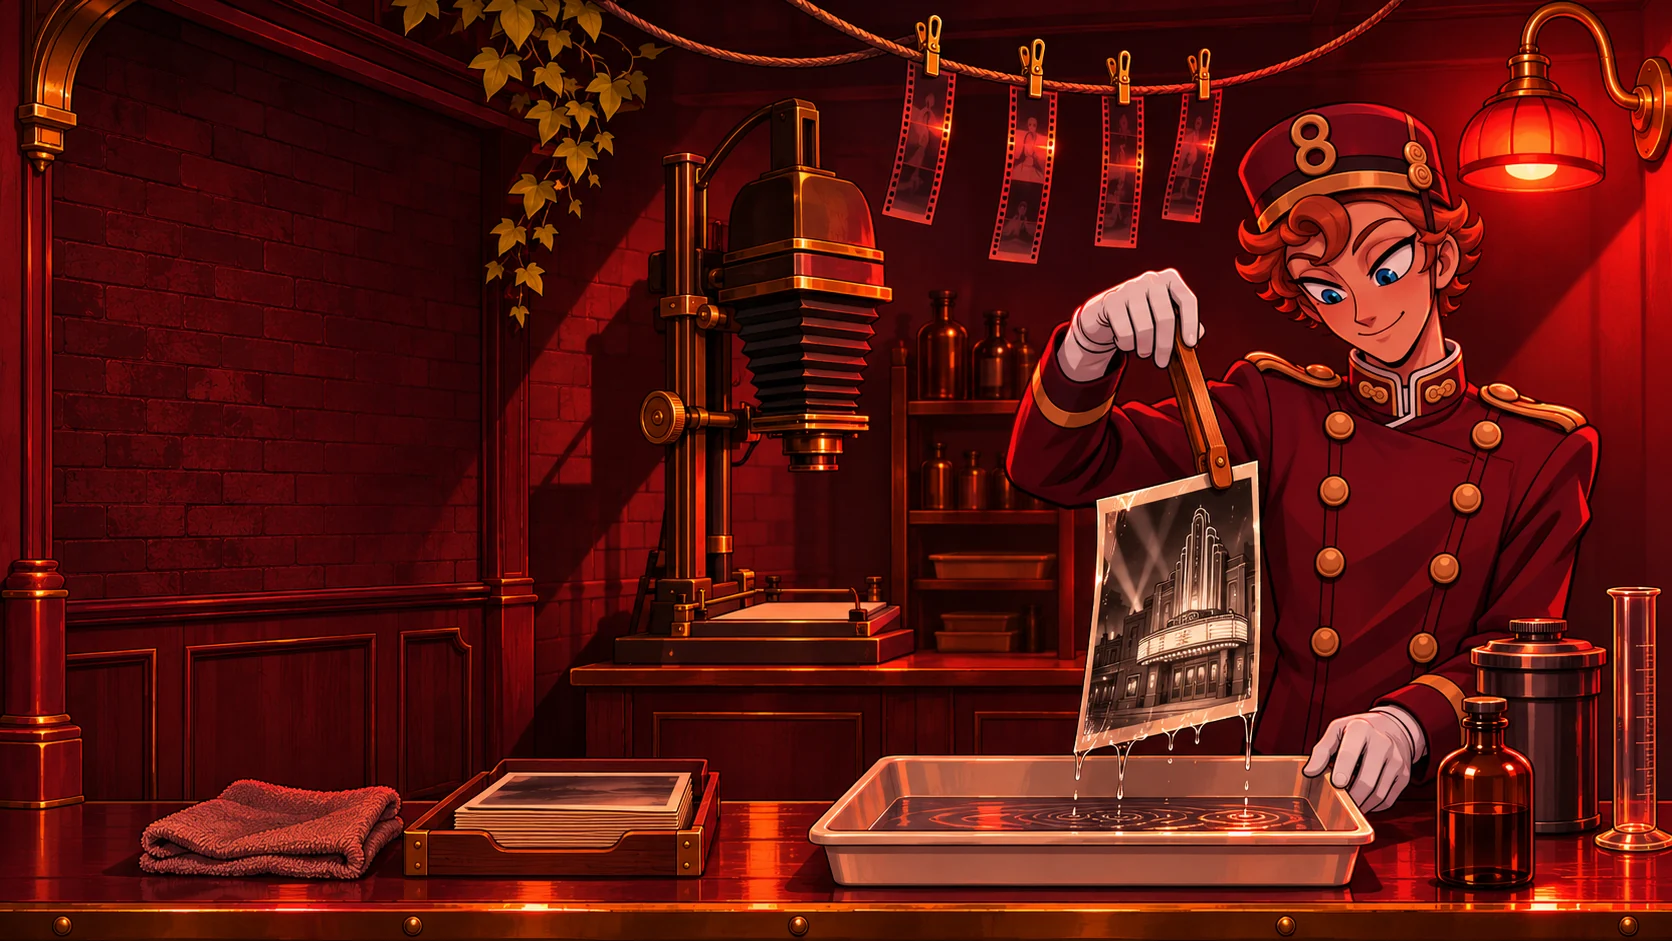
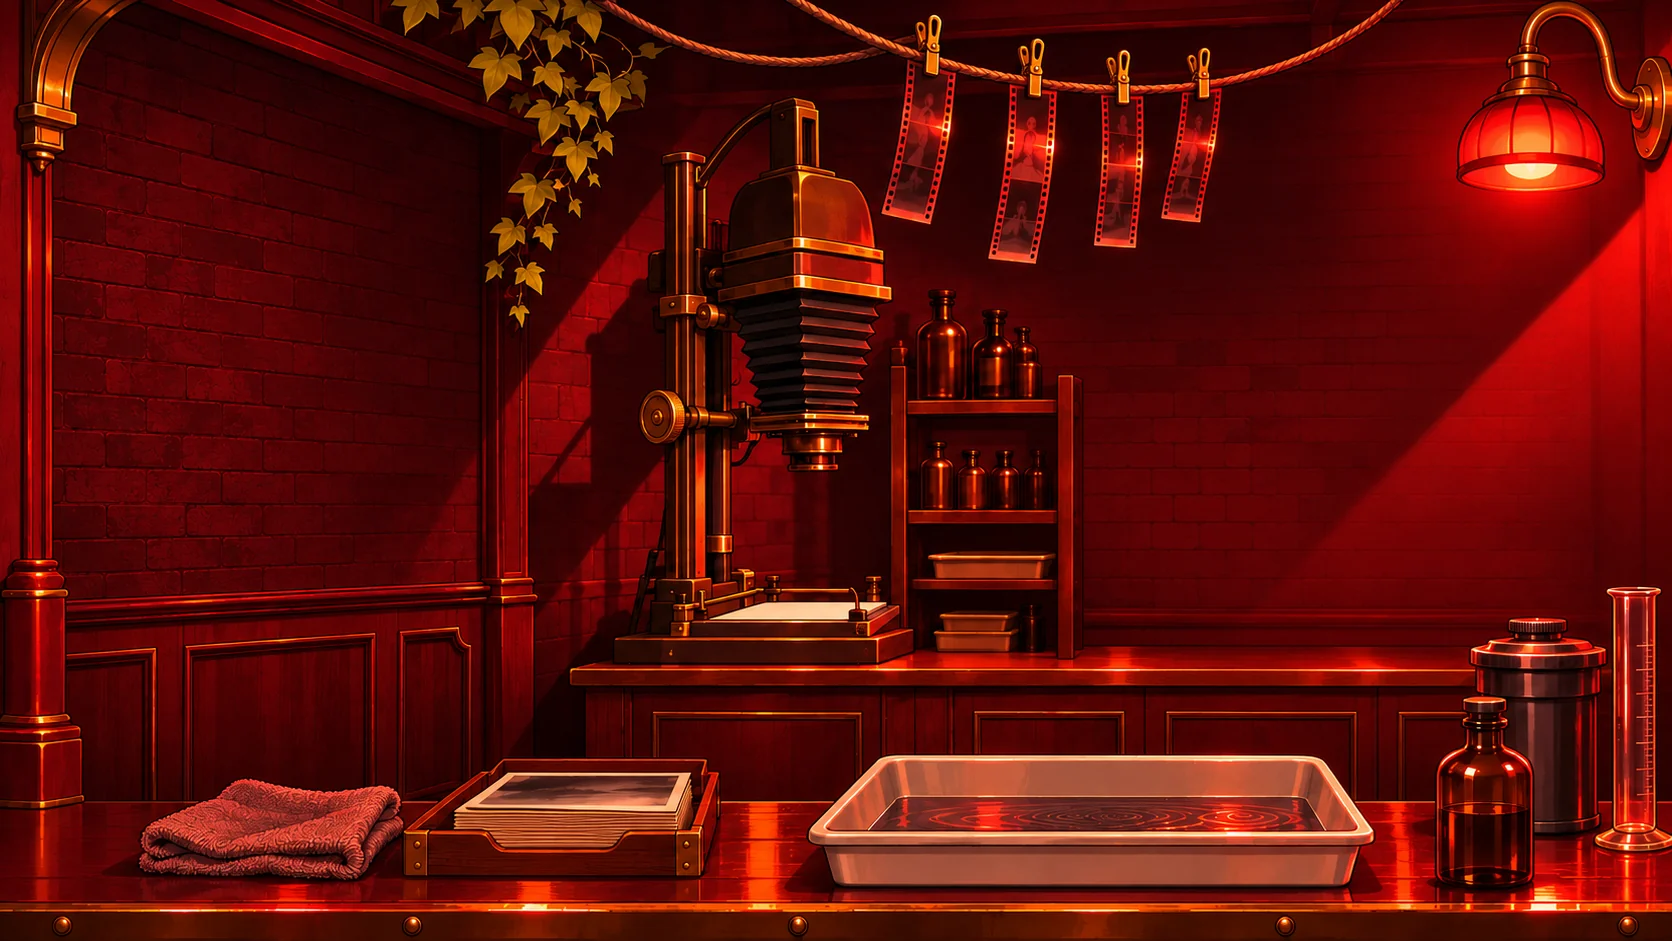
Restaurar o layout original de Serviços com o laboratório no fundo

diff --git a/src/pages/VideoEditing.jsx b/src/pages/VideoEditing.jsx
@@ -95,7 +95,6 @@ export default function VideoEditing() {
   }
   const [playing, setPlaying] = useState(null);
   const [format, setFormat] = useState('all');
-  const [serviceFormat, setServiceFormat] = useState('all');
   const longVideos = videoProjects.filter(project => project.category !== 'Vídeos verticais');
   const shorts = videoProjects.filter(project => project.category === 'Vídeos verticais');
   return <div className="video-portfolio">
@@ -112,18 +111,8 @@ export default function VideoEditing() {
       {format !== 'long' && shorts.length > 0 && <div className="cut-work-group cut-short-group"><div className="cut-short-note"><p className="cut-label">FORMATO VERTICAL / 9:16</p><h3>POUCOS<br />SEGUNDOS.<br /><em>BOAS IDEIAS.</em></h3><p>Vídeos curtos, com ritmo, legendas e personalidade para acompanhar quem assiste pelo celular.</p><img className="studio-film" loading="lazy" src="/images/doorman/intro.webp" alt="O Doorman escolhe um trecho da película." /><p className="cut-label">SHORTS / REELS / TIKTOK</p></div><div className="cut-shorts-grid">{shorts.map((project, index) => <WorkCard key={project.id} project={project} index={index + longVideos.length} onPlay={setPlaying} />)}</div></div>}
     </section>}
     {room === 'office' && <><section className="cut-section cut-services" id="edicao-servicos" aria-labelledby="cut-services-title">
-      <div className="lab-banner">
-        <div className="lab-banner-inner">
-          <div className="lab-banner-art" aria-hidden="true" />
-          <SectionHeading number="03" label="Sala de revelação"><span id="cut-services-title">QUAL É O<br /><em>FORMATO?</em></span></SectionHeading>
-          <p className="studio-dialogue"><small>Doorman</small>Escolha um formato. Vou revelar como o Sab edita.</p>
-        </div>
-      </div>
-      <div className="cinema-filter" role="group" aria-label="Escolher formato">
-        {[['all','Todos'], [services[0].format,'Vídeos longos'], [services[1].format,'Vídeos curtos'], [services[2].format,'Highlights']].map(([id,label]) =>
-          <button key={id} type="button" aria-pressed={serviceFormat === id} onClick={() => setServiceFormat(id)}>{label}</button>)}
-      </div>
-      <div className="cut-service-list">{services.filter(service => serviceFormat === 'all' || service.format === serviceFormat).map(service => <article key={service.format}><div className="cut-service-symbol" aria-hidden="true">{service.icon}</div><div><p className="cut-label">{service.format}</p><h3>{service.title}</h3><p>{service.text}</p></div><ul aria-label="Formatos">{service.tags.map(tag => <li key={tag}>{tag}</li>)}</ul></article>)}</div>
+      <div className="studio-scene scene-services"><div><SectionHeading number="03" label="Serviços"><span id="cut-services-title">QUAL É O<br /><em>FORMATO?</em></span></SectionHeading></div><div className="cinema-speaker"><p className="studio-dialogue"><small>Doorman</small>Gostou da sessão? Aqui na cabine eu escolho a janela certa para cada vídeo.</p><img src="/images/doorman/services.webp" alt="" loading="lazy" /></div></div>
+      <div className="cut-service-list">{services.map(service => <article key={service.format}><div className="cut-service-symbol" aria-hidden="true">{service.icon}</div><div><p className="cut-label">{service.format}</p><h3>{service.title}</h3><p>{service.text}</p></div><ul aria-label="Formatos">{service.tags.map(tag => <li key={tag}>{tag}</li>)}</ul></article>)}</div>
     </section>
 
     <section className="cut-section cut-process-section" id="edicao-processo" aria-labelledby="cut-process-title">

diff --git a/src/styles/doorman-scenes.css b/src/styles/doorman-scenes.css
@@ -22,17 +22,3 @@
 .cut-contact-intro .scene-contact h2 {font-size:clamp(2.8rem,6vw,6rem)}
 @media(max-width:760px){.studio-scene{grid-template-columns:minmax(0,1.4fr) minmax(75px,.8fr);padding-inline:0;gap:4px}.editor-site .studio-scene h2{font-size:clamp(1.55rem,6vw,2.9rem)}.studio-dialogue{padding:.5rem .65rem;margin-bottom:1rem}.studio-film{width:135px}.studio-door{max-width:460px;width:100%;justify-self:center}}
 @media(prefers-reduced-motion:reduce){.studio-door .door-peek{display:none}.studio-door .door-welcome{opacity:1}}
-
-/* The darkroom shares the projection room's title plaque and speaker bubble. */
-.lab-banner {width:100vw;margin-left:calc(50% - 50vw);background:linear-gradient(90deg,#1a1018ec,#381017cf),url('/images/doorman/darkroom.webp') center / cover;border-bottom:7px solid #201921;}
-.lab-banner-inner {position:relative;isolation:isolate;display:flex;align-items:center;min-height:clamp(340px,34vw,520px);max-width:1500px;margin:auto;padding:2rem clamp(20px,4vw,72px);box-sizing:border-box;}
-.lab-banner-art {position:absolute;inset:0;z-index:-1;background:url('/images/doorman/darkroom.webp') right center / auto 100% no-repeat;mask-image:linear-gradient(90deg,transparent 12%,black 49%);}
-.editor-site .lab-banner .cut-section-heading {width:48%;padding:1.3rem;border:6px double #ce9678;background:#271b23;box-shadow:8px 8px #130e16;box-sizing:border-box;}
-.lab-banner .studio-dialogue {position:absolute;right:22%;top:5%;width:min(21%,255px);margin:0;}
-.editor-site .cut-services::before {background-color:#23191e;}
-@media(max-width:700px){
- .lab-banner-inner {display:block;min-height:0;padding:1rem 5% clamp(190px,51vw,340px);}
- .lab-banner-art {background-size:auto clamp(195px,52vw,345px);background-position:right bottom;mask-image:none;}
- .editor-site .lab-banner .cut-section-heading {width:100%;margin:0;padding:.6rem .9rem;border-width:4px;}
- .lab-banner .studio-dialogue {top:auto;bottom:clamp(75px,20vw,140px);left:5%;right:auto;width:40%;font-size:.84rem;}
-}

diff --git a/src/styles/cine-sab.css b/src/styles/cine-sab.css
@@ -28,7 +28,7 @@
 .editor-site .cut-works .cut-long-grid .cut-work {border:6px double #512437;box-shadow:7px 7px #d1a457;background:#f9eac9}
 .editor-site .cut-works .cut-work-short {border:4px solid #4d2634;background:#fff0d0;box-shadow:6px 6px #b78548}
 .editor-site .cut-services::before {background-color:#293a50;background-image:radial-gradient(#dca45333 1px,transparent 1.5px);background-size:5px 5px}
-.editor-site .scene-services {--set:linear-gradient(152deg,transparent 47%,#ffe1a724 47.2%,transparent 75%),repeating-linear-gradient(90deg,#233246 0 53px,#475666 54px 56px);}
+.editor-site .scene-services {--set:linear-gradient(90deg,#170b1469,transparent 65%),url('/images/doorman/darkroom.webp') center / cover no-repeat;}
 .editor-site .cut-process-section .scene-process {--set:linear-gradient(0deg,#70482e 0 12%,transparent 12.5%),repeating-linear-gradient(0deg,#24222d 0 36px,#393647 37px 39px);}
 .editor-site .cut-process {border-block:6px dotted #c4a982;padding-block:1rem;}
 .editor-site .cut-contact-intro::before,.editor-site #edicao-contato::before {background:#e8c49a radial-gradient(#54262a24 1px,transparent 1.6px);background-size:5px 5px;}
